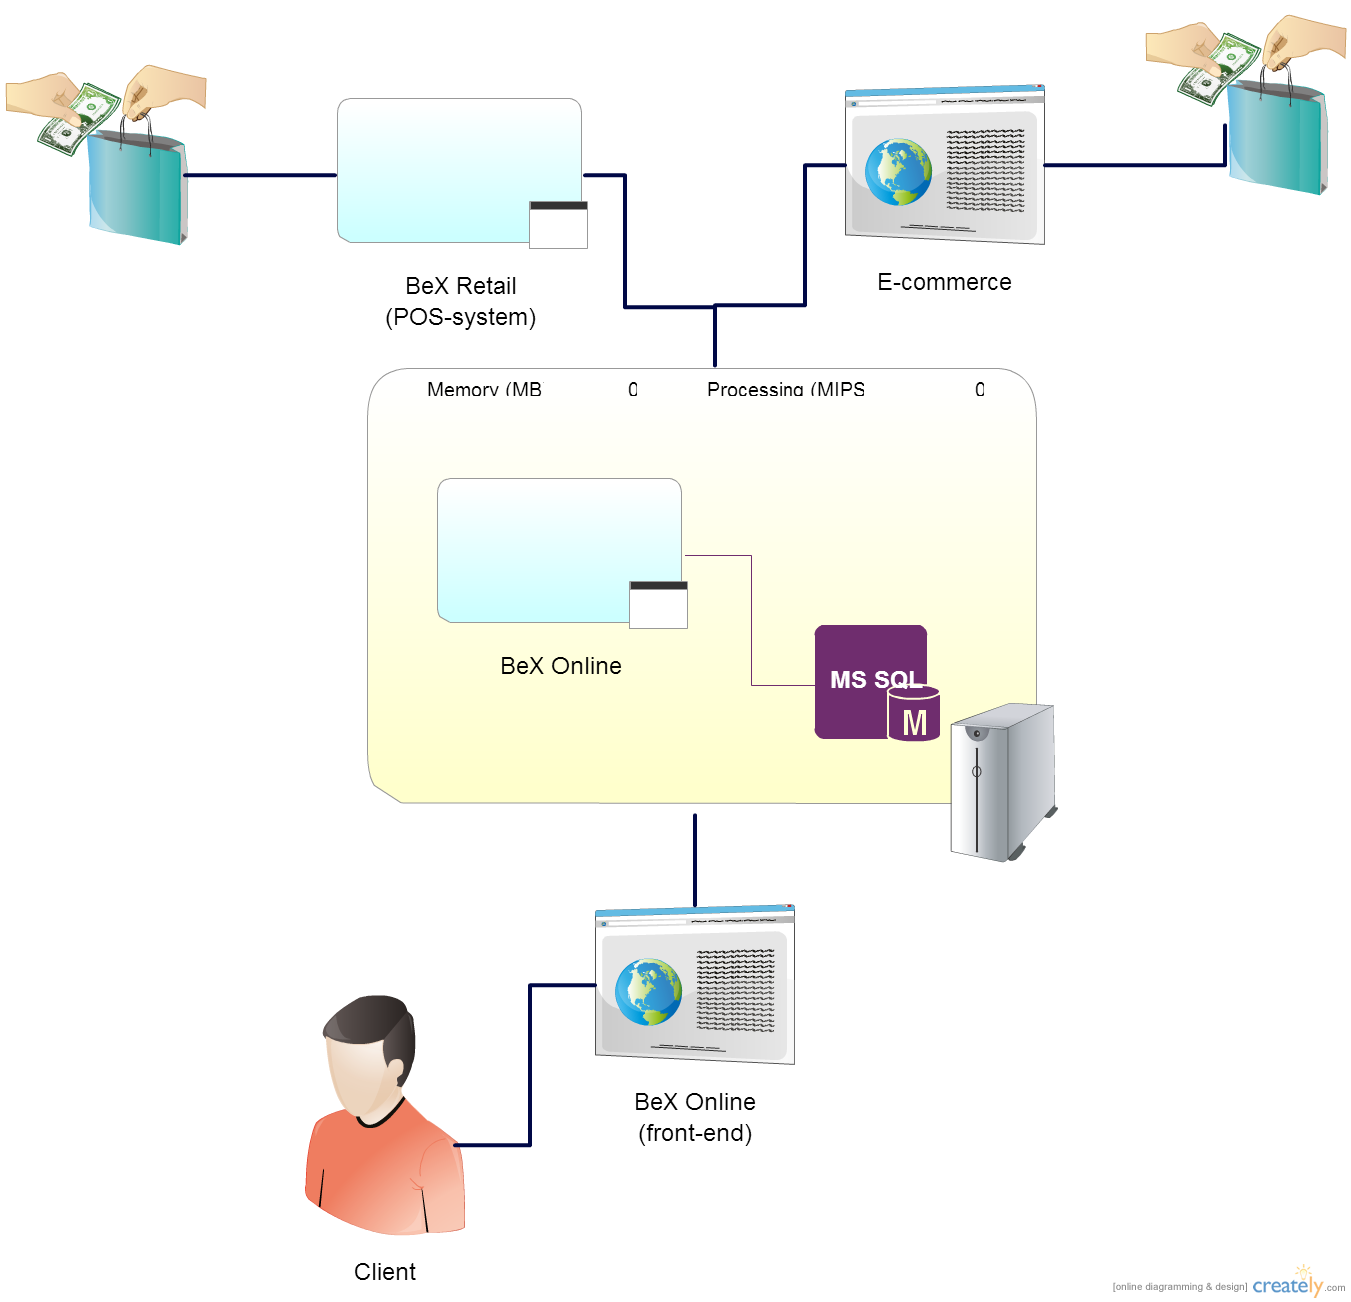
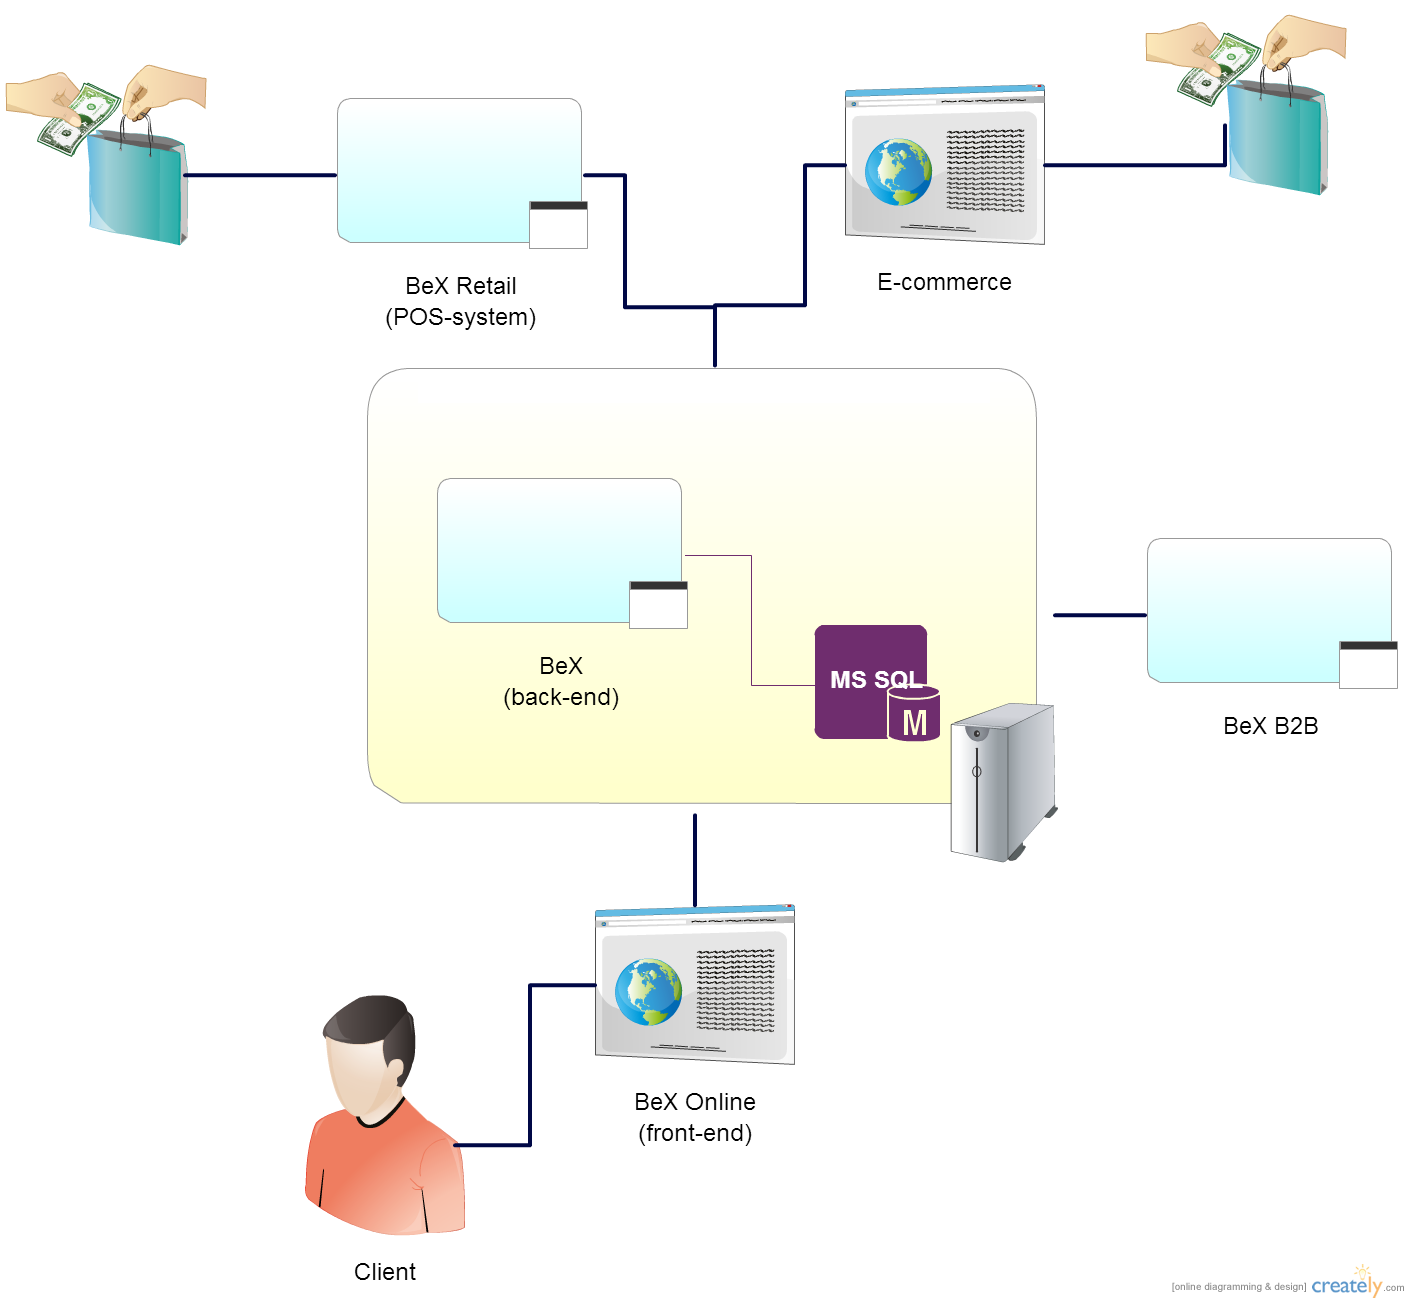
added some tech desc.

diff --git a/Master Thesis/thesis.tex b/Master Thesis/thesis.tex
@@ -9,8 +9,10 @@
 \usepackage{graphicx}
 \usepackage[titletoc, header, page]{appendix}
 \usepackage{todo}
-
+\usepackage{float}
 \usepackage[hidelinks]{hyperref}
+\usepackage{wrapfig}
+\usepackage[within=none]{caption}
 
 \author{
 	Alexander Söderberg \\
@@ -80,8 +82,15 @@ The time frame of a master thesis is limited and therefore work limitations have
 \section{Work}
 
 \chapter{Approach}
-\section{Technical Description}
-\includegraphics[scale=.2]{Systemdesc.png}
+\section{Technical System Description}
+Perfect IT delivers web-based business system and services associated to such a market.  	
+\begin{figure}[H]
+  \begin{center}
+    \includegraphics[scale=0.3]{Systemdesc.png}
+  \end{center}
+  \caption{Context diagram of Perfect IT's system}
+\end{figure}
+
 \section{Database}
 \href{https://drive.google.com/file/d/0B1IYTmE2hnD-eGQ0N2tvYXZNNVE/view?usp=sharing}{Database schema link}
 
